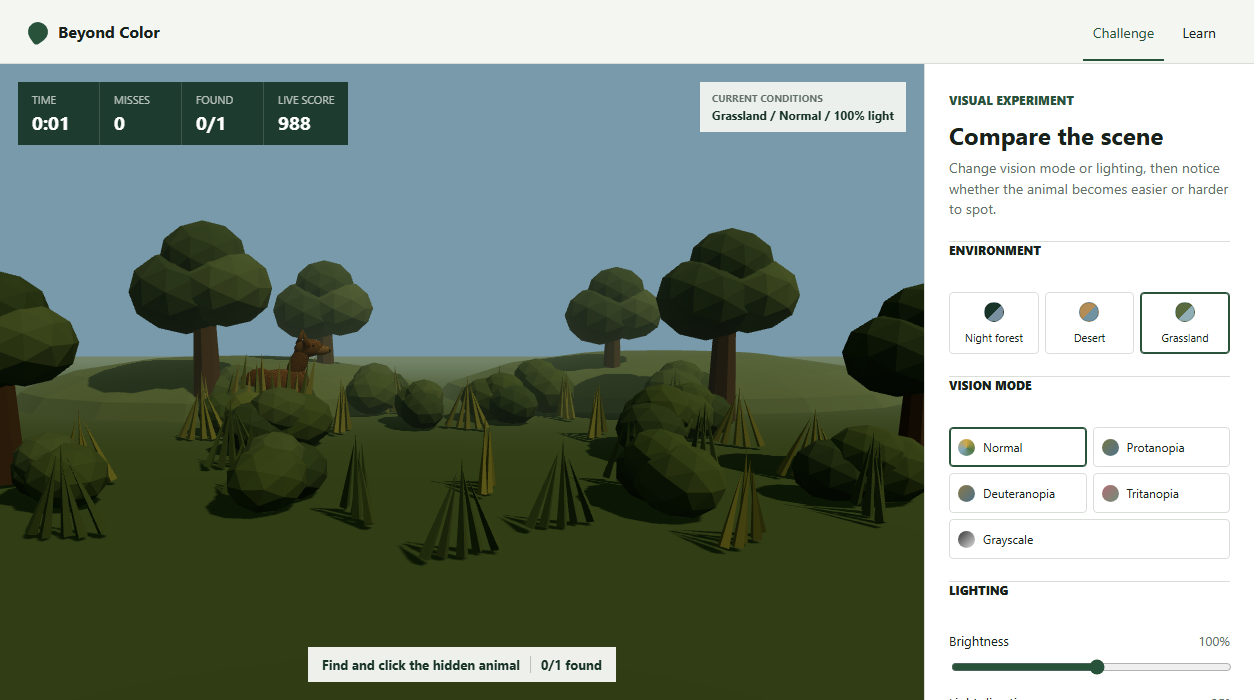
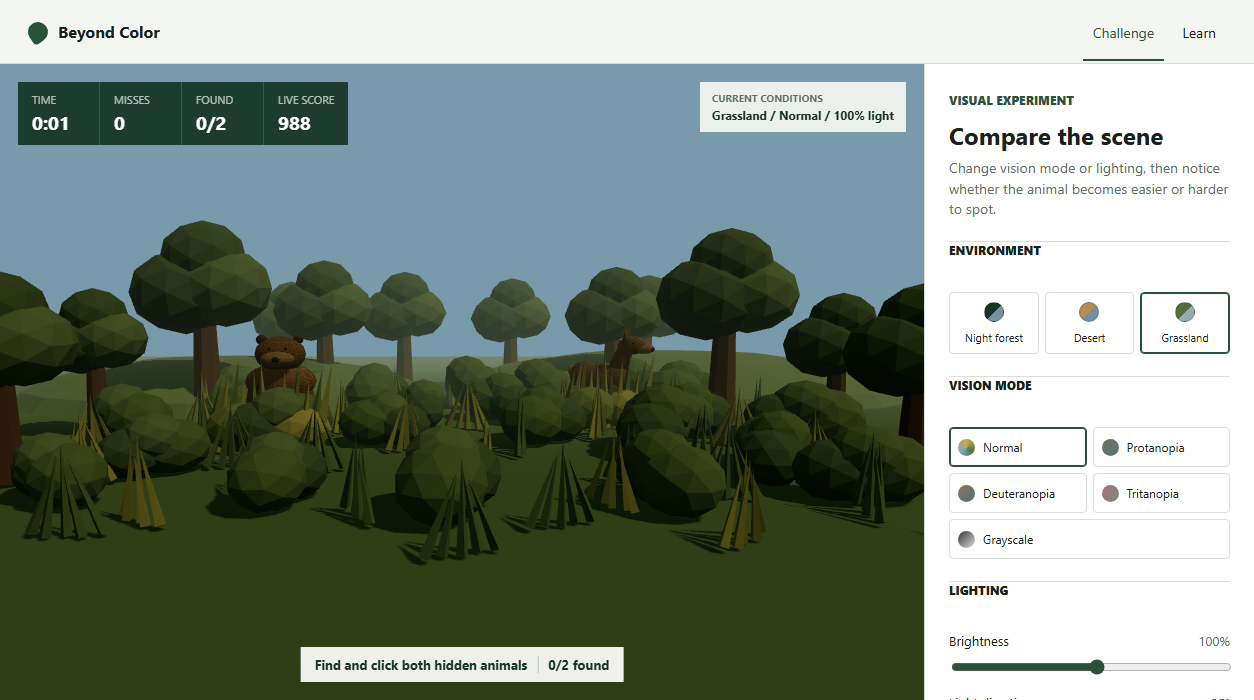
Increase environmental cover across scenes

diff --git a/web-app/src/App.tsx b/web-app/src/App.tsx
@@ -361,6 +361,32 @@ type NightForestModelProps = {
   onClick: (event: ThreeEvent<MouseEvent>) => void
 }
 
+const FOREST_EXTRA_TREES: Array<{ position: Position3; scale: number }> = [
+  { position: [-7.2, 0, -7.1], scale: 1.05 }, { position: [-5.7, 0, -9.5], scale: 0.92 },
+  { position: [-4.1, 0, -7.8], scale: 1.12 }, { position: [-2.3, 0, -10.4], scale: 0.86 },
+  { position: [-0.2, 0, -8.8], scale: 1.05 }, { position: [2.1, 0, -10.2], scale: 0.9 },
+  { position: [4.15, 0, -8.1], scale: 1.14 }, { position: [5.9, 0, -10], scale: 0.88 },
+  { position: [7.25, 0, -7.2], scale: 1.02 }, { position: [-6.8, 0, -12.2], scale: 0.78 },
+  { position: [-1, 0, -12.6], scale: 0.82 }, { position: [6.55, 0, -12.1], scale: 0.76 },
+]
+
+const FOREST_EXTRA_SHRUBS: Position3[] = [
+  [-5.4, 0, -3.2], [-4.2, 0, -5.4], [-2.8, 0, -2.2], [-1.35, 0, -5.8],
+  [0.2, 0, -3.8], [1.65, 0, -6.1], [2.75, 0, -2.4], [4.1, 0, -5.5],
+  [5.3, 0, -3], [-4.8, 0, 0.4], [4.7, 0, 0.55], [0.3, 0, 1.5],
+]
+
+const FOREST_EXTRA_ROCKS: Array<{ position: Position3; scale: Position3 }> = [
+  { position: [-5.8, 0.22, -4.4], scale: [0.72, 0.45, 0.58] },
+  { position: [-3.2, 0.18, -6.4], scale: [0.55, 0.36, 0.46] },
+  { position: [-1.7, 0.15, -2.7], scale: [0.44, 0.3, 0.38] },
+  { position: [1.2, 0.2, -5.1], scale: [0.62, 0.4, 0.5] },
+  { position: [3.4, 0.16, -6.5], scale: [0.5, 0.32, 0.42] },
+  { position: [5.7, 0.24, -4], scale: [0.76, 0.48, 0.62] },
+  { position: [-3.9, 0.14, 1], scale: [0.42, 0.28, 0.36] },
+  { position: [3.6, 0.15, 1.2], scale: [0.48, 0.3, 0.4] },
+]
+
 function NightForestModel({ visionMode, onClick }: NightForestModelProps) {
   const gltf = useLoader(GLTFLoader, `${ASSET_BASE}models/forest/night_forest.glb`)
   const forest = useMemo(() => {
@@ -398,7 +424,58 @@ function NightForestModel({ visionMode, onClick }: NightForestModelProps) {
     })
   }, [forest, visionMode])
 
-  return <primitive object={forest} onClick={onClick} />
+  const colors = useMemo(
+    () => ({
+      trunk: transformColor('#241b16', visionMode),
+      needles: transformColor('#10291f', visionMode),
+      needlesLight: transformColor('#173629', visionMode),
+      shrub: transformColor('#183b29', visionMode),
+      rock: transformColor('#26312e', visionMode),
+    }),
+    [visionMode],
+  )
+
+  return (
+    <group onClick={onClick}>
+      <primitive object={forest} />
+      {FOREST_EXTRA_TREES.map((tree, index) => (
+        <group key={`forest-tree-${index}`} position={tree.position} scale={tree.scale}>
+          <mesh castShadow position={[0, 1.65, 0]}>
+            <cylinderGeometry args={[0.2, 0.32, 3.3, 7]} />
+            <meshStandardMaterial color={colors.trunk} roughness={1} flatShading />
+          </mesh>
+          {[1.75, 2.55, 3.3].map((height, layer) => (
+            <mesh key={height} castShadow position={[0, height, 0]}>
+              <coneGeometry args={[1.25 - layer * 0.18, 1.75, 7]} />
+              <meshStandardMaterial
+                color={layer % 2 === 0 ? colors.needles : colors.needlesLight}
+                roughness={1}
+                flatShading
+              />
+            </mesh>
+          ))}
+        </group>
+      ))}
+      {FOREST_EXTRA_SHRUBS.map((position, index) => (
+        <group key={`forest-shrub-${index}`} position={position} rotation={[0, index * 0.71, 0]}>
+          <mesh castShadow position={[-0.28, 0.34, 0]} scale={[0.62, 0.42, 0.5]}>
+            <icosahedronGeometry args={[1, 1]} />
+            <meshStandardMaterial color={colors.shrub} roughness={1} flatShading />
+          </mesh>
+          <mesh castShadow position={[0.3, 0.3, 0.05]} scale={[0.56, 0.38, 0.46]}>
+            <icosahedronGeometry args={[1, 1]} />
+            <meshStandardMaterial color={colors.needlesLight} roughness={1} flatShading />
+          </mesh>
+        </group>
+      ))}
+      {FOREST_EXTRA_ROCKS.map((rock, index) => (
+        <mesh key={`forest-rock-${index}`} castShadow receiveShadow position={rock.position} scale={rock.scale}>
+          <dodecahedronGeometry args={[1, 0]} />
+          <meshStandardMaterial color={colors.rock} roughness={1} flatShading />
+        </mesh>
+      ))}
+    </group>
+  )
 }
 
 const DESERT_ROCKS: Array<{ position: Position3; scale: Position3; rotation: Position3 }> = [
@@ -418,6 +495,14 @@ const DESERT_ROCKS: Array<{ position: Position3; scale: Position3; rotation: Pos
   { position: [4.8, 0.22, 0.35], scale: [0.74, 0.46, 0.58], rotation: [-0.08, 0.65, -0.04] },
   { position: [-0.55, 0.15, 2.55], scale: [0.48, 0.3, 0.4], rotation: [0.04, -0.55, 0.08] },
   { position: [5.5, 0.28, -7], scale: [0.9, 0.58, 0.72], rotation: [0.08, 0.3, -0.05] },
+  { position: [-6.15, 0.2, -1.35], scale: [0.64, 0.4, 0.52], rotation: [0.04, 0.45, -0.06] },
+  { position: [6.1, 0.23, -2.6], scale: [0.7, 0.46, 0.56], rotation: [-0.06, -0.25, 0.05] },
+  { position: [-3, 0.17, -3.8], scale: [0.5, 0.34, 0.42], rotation: [0.08, 0.7, 0.04] },
+  { position: [2.8, 0.15, -0.35], scale: [0.46, 0.3, 0.4], rotation: [-0.04, 0.3, -0.08] },
+  { position: [-1.1, 0.13, -1.2], scale: [0.4, 0.26, 0.34], rotation: [0.05, -0.5, 0.06] },
+  { position: [0.65, 0.18, -5.15], scale: [0.58, 0.36, 0.46], rotation: [-0.08, 0.55, -0.03] },
+  { position: [-5.7, 0.16, 1.8], scale: [0.48, 0.31, 0.4], rotation: [0.06, 0.2, 0.08] },
+  { position: [5.65, 0.18, 2.1], scale: [0.56, 0.35, 0.44], rotation: [-0.05, -0.45, 0.04] },
 ]
 
 const DESERT_MOUNTAINS: Array<{ position: Position3; scale: Position3; rotationY: number }> = [
@@ -439,6 +524,14 @@ const DESERT_SHRUBS: Position3[] = [
   [2.7, 0, -5.55],
   [-4.8, 0, 1.1],
   [4.7, 0, 1.5],
+  [-5.8, 0, -1.9],
+  [5.75, 0, -2.15],
+  [-3.9, 0, -6.25],
+  [4.15, 0, -6.4],
+  [-0.35, 0, -5.8],
+  [0.6, 0, -0.45],
+  [-2.7, 0, 2.4],
+  [2.55, 0, 2.65],
 ]
 
 const GRASS_TUFTS: Position3[] = [
@@ -448,6 +541,9 @@ const GRASS_TUFTS: Position3[] = [
   [-5.2, 0, -4.5], [-3.2, 0, -4.8], [-1.4, 0, -5.2], [0.8, 0, -5.4],
   [2.1, 0, -4.6], [4.2, 0, -4.3], [-5.1, 0, 0.4], [-2.7, 0, 0.8],
   [0.3, 0, 0.7], [2.2, 0, 0.5], [4.8, 0, 0.2], [0, 0, 3.1],
+  [-5.7, 0, -1.1], [-4.1, 0, -1.45], [-3.6, 0, 2.05], [-2.1, 0, -0.3],
+  [-0.9, 0, -1.7], [0.9, 0, -1.4], [1.8, 0, 1.5], [3.3, 0, 1.1],
+  [4.1, 0, -4.9], [5.55, 0, -3.5], [-0.2, 0, -6.2], [5.65, 0, 2.8],
 ]
 
 const GRASS_SHRUBS: Position3[] = [
@@ -455,6 +551,9 @@ const GRASS_SHRUBS: Position3[] = [
   [-5, 0, 1.2], [5, 0, 1.1], [-3, 0, -1.8], [3.1, 0, -1.55],
   [-0.8, 0, -3.9], [0.75, 0, -4.35], [-4.7, 0, -5.1], [4.65, 0, -5.25],
   [-2.25, 0, 1.25], [2.45, 0, 1.4],
+  [-5.65, 0, -2.2], [5.7, 0, -2.05], [-4.35, 0, -0.15], [4.3, 0, 0.05],
+  [-3.55, 0, -6.2], [3.65, 0, -6.05], [-1.3, 0, -2.15], [1.4, 0, -2.35],
+  [-0.15, 0, 1.65], [0.2, 0, -6.35],
 ]
 
 const GRASS_TREES: Array<{ position: Position3; scale: number }> = [
@@ -464,6 +563,12 @@ const GRASS_TREES: Array<{ position: Position3; scale: number }> = [
   { position: [3.45, 0, -6.7], scale: 0.78 },
   { position: [-6.1, 0, 0.4], scale: 0.72 },
   { position: [6.15, 0, 0.2], scale: 0.68 },
+  { position: [-4.4, 0, -8.9], scale: 0.7 },
+  { position: [-1.45, 0, -8.3], scale: 0.76 },
+  { position: [1.25, 0, -8.7], scale: 0.72 },
+  { position: [4.65, 0, -8.5], scale: 0.74 },
+  { position: [-6.4, 0, -2.7], scale: 0.66 },
+  { position: [6.45, 0, -2.5], scale: 0.64 },
 ]
 
 function DesertModel({ visionMode, onClick }: NightForestModelProps) {
